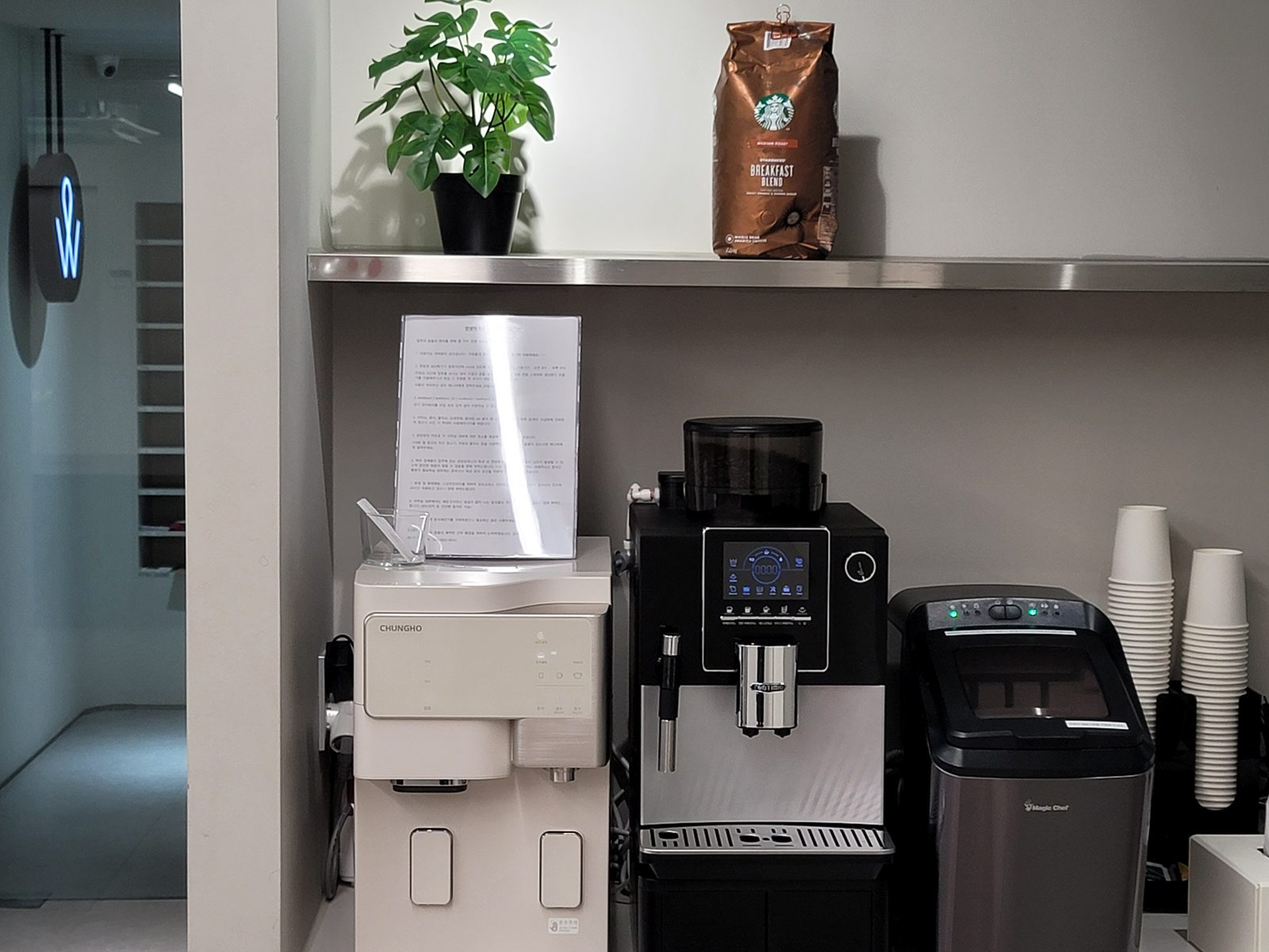
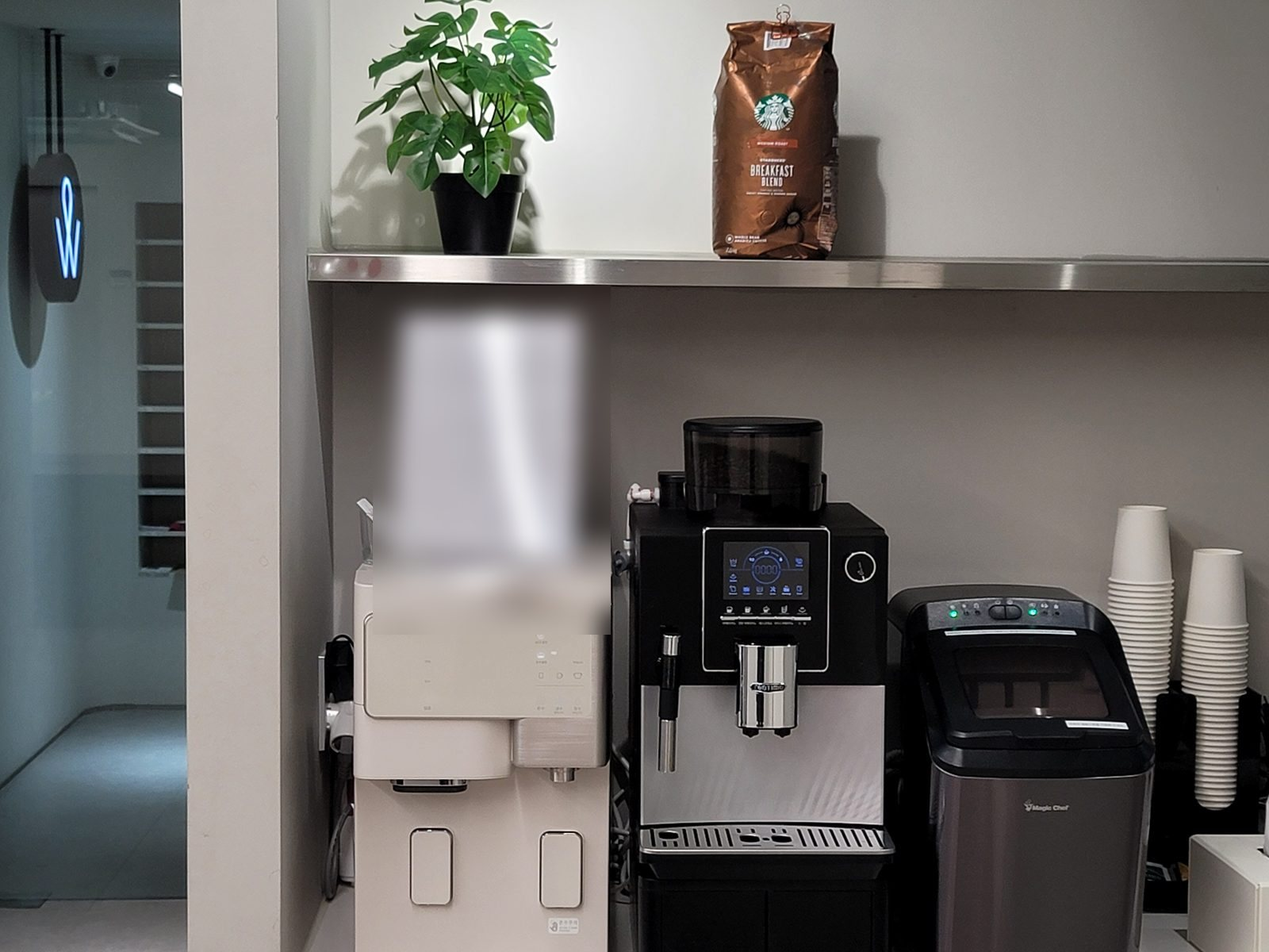
Gallery: 7F-focused photos (blurred notice/phone/name tags), lightbox script, gallery CSS

Changed region(s): [[0.2812, 0.3083, 0.5, 0.6783]]

diff --git a/global.css b/global.css
@@ -1,2 +1,2 @@
 @import url("https://cdn.jsdelivr.net/gh/orioncactus/pretendard@v1.3.9/dist/web/variable/pretendardvariable-dynamic-subset.min.css");
-:root{--wk-ink:#15181d;--wk-text:#2b3038;--wk-muted:#6b7280;--wk-line:#e6e8ec;--wk-soft:#f5f6f8;--wk-soft2:#eceef2;--wk-yellow:#f5c400;--wk-yellow-soft:#fff6c7;--wk-red:#e23d28;--wk-white:#fff;--wk-radius:14px;--wk-max:1120px;--wk-font:"Pretendard Variable",Pretendard,-apple-system,BlinkMacSystemFont,"Apple SD Gothic Neo","Noto Sans KR","Malgun Gothic",sans-serif;}body{font-family:var(--wk-font)!important;-webkit-font-smoothing:antialiased;letter-spacing:-.01em}.doz_sys .wk{font-family:var(--wk-font);color:var(--wk-text);line-height:1.6;word-break:keep-all;max-width:var(--wk-max);margin:0 auto;padding:0 20px}.doz_sys .wk *{box-sizing:border-box}.doz_sys .wk a{color:inherit;text-decoration:none}.doz_sys .wk h1,.doz_sys .wk h2,.doz_sys .wk h3,.doz_sys .wk h4{font-family:var(--wk-font);margin:0;color:var(--wk-ink);font-weight:700;letter-spacing:-.02em;line-height:1.25}.doz_sys .wk p{margin:0}.doz_sys .wk .wk-sec{padding:72px 0}.doz_sys .wk .wk-sec--tight{padding:40px 0}.doz_sys .wk .wk-sec--soft{background:var(--wk-soft);margin:0 -20px;padding-left:20px;padding-right:20px}.doz_sys .wk .wk-eyebrow{display:inline-block;font-size:13px;font-weight:700;letter-spacing:.08em;color:var(--wk-muted);text-transform:uppercase;margin-bottom:14px}.doz_sys .wk .wk-h1{font-size:44px;line-height:1.15}.doz_sys .wk .wk-h2{font-size:32px;margin-bottom:12px}.doz_sys .wk .wk-h3{font-size:20px}.doz_sys .wk .wk-lead{font-size:18px;color:var(--wk-text);max-width:640px}.doz_sys .wk .wk-sub{font-size:16px;color:var(--wk-muted);max-width:640px;margin-top:10px}.doz_sys .wk .wk-mark{background:linear-gradient(transparent 60%,var(--wk-yellow-soft) 60%)}.doz_sys .wk .wk-btns{display:flex;flex-wrap:wrap;gap:10px;margin-top:28px}.doz_sys .wk .wk-btn{display:inline-flex;align-items:center;justify-content:center;gap:8px;height:52px;padding:0 24px;border-radius:999px;font-size:16px;font-weight:600;border:1px solid var(--wk-ink);transition:transform .15s,background .15s,color .15s;white-space:nowrap}.doz_sys .wk .wk-btn:hover{transform:translateY(-1px)}.doz_sys .wk .wk-btn--primary{background:var(--wk-ink);color:#fff}.doz_sys .wk .wk-btn--primary:hover{background:#000}.doz_sys .wk .wk-btn--ghost{background:#fff;color:var(--wk-ink)}.doz_sys .wk .wk-btn--ghost:hover{background:var(--wk-soft)}.doz_sys .wk .wk-btn--yellow{background:var(--wk-yellow);border-color:var(--wk-yellow);color:var(--wk-ink)}.doz_sys .wk .wk-btn--sm{height:42px;padding:0 18px;font-size:14px}.doz_sys .wk .wk-hero{display:grid;grid-template-columns:1.05fr .95fr;gap:48px;align-items:center;padding:56px 0 64px}.doz_sys .wk .wk-hero__img{position:relative;border-radius:20px;overflow:hidden;aspect-ratio:4/3;background:var(--wk-soft2)}.doz_sys .wk .wk-hero__img img{width:100%;height:100%;object-fit:cover;display:block}.doz_sys .wk .wk-hero__tag{position:absolute;left:16px;bottom:16px;background:rgba(21,24,29,.85);color:#fff;font-size:13px;padding:8px 12px;border-radius:999px;backdrop-filter:blur(4px)}.doz_sys .wk .wk-facts{display:flex;flex-wrap:wrap;gap:8px 22px;margin-top:22px;padding:0;list-style:none;font-size:15px;color:var(--wk-text)}.doz_sys .wk .wk-facts li{display:flex;align-items:center;gap:8px}.doz_sys .wk .wk-facts li:before{content:"";width:7px;height:7px;border-radius:50%;background:var(--wk-yellow);flex:none}.doz_sys .wk .wk-stats{display:grid;grid-template-columns:repeat(4,1fr);gap:1px;background:var(--wk-line);border:1px solid var(--wk-line);border-radius:var(--wk-radius);overflow:hidden}.doz_sys .wk .wk-stat{background:#fff;padding:22px 20px}.doz_sys .wk .wk-stat b{display:block;font-size:26px;color:var(--wk-ink);letter-spacing:-.02em}.doz_sys .wk .wk-stat span{font-size:14px;color:var(--wk-muted)}.doz_sys .wk .wk-grid{display:grid;gap:18px;margin-top:32px}.doz_sys .wk .wk-grid--2{grid-template-columns:repeat(2,1fr)}.doz_sys .wk .wk-grid--3{grid-template-columns:repeat(3,1fr)}.doz_sys .wk .wk-grid--4{grid-template-columns:repeat(4,1fr)}.doz_sys .wk .wk-card{background:#fff;border:1px solid var(--wk-line);border-radius:var(--wk-radius);padding:26px 24px}.doz_sys .wk .wk-card--soft{background:var(--wk-soft);border-color:transparent}.doz_sys .wk .wk-card__icon{width:40px;height:40px;border-radius:12px;background:var(--wk-yellow-soft);display:flex;align-items:center;justify-content:center;margin-bottom:16px;font-size:20px;color:var(--wk-ink)}.doz_sys .wk .wk-card h3{font-size:18px;margin-bottom:8px}.doz_sys .wk .wk-card p{font-size:15px;color:var(--wk-muted)}.doz_sys .wk .wk-card--photo{padding:0;overflow:hidden}.doz_sys .wk .wk-card--photo img{width:100%;aspect-ratio:4/3;object-fit:cover;display:block}.doz_sys .wk .wk-card--photo .wk-card__body{padding:18px 20px 22px}.doz_sys .wk .wk-table{width:100%;table-layout:fixed;border-collapse:collapse;margin-top:20px;font-size:15px}.doz_sys .wk .wk-table th:first-child,.doz_sys .wk .wk-table td:first-child{width:22%}.doz_sys .wk .wk-table th,.doz_sys .wk .wk-table td{padding:16px 14px;border-bottom:1px solid var(--wk-line);text-align:left;vertical-align:top}.doz_sys .wk .wk-table th{font-size:13px;font-weight:700;color:var(--wk-muted);letter-spacing:.04em;background:var(--wk-soft)}.doz_sys .wk .wk-table td b{color:var(--wk-ink);font-size:17px}.doz_sys .wk .wk-table td small{display:block;color:var(--wk-muted);font-size:13px;margin-top:2px}.doz_sys .wk .wk-table .wk-plus{display:inline-block;margin-left:6px;padding:2px 8px;border-radius:999px;background:var(--wk-yellow);font-size:12px;font-weight:700;color:var(--wk-ink)}.doz_sys .wk .wk-note{font-size:14px;color:var(--wk-muted);margin-top:12px;padding-left:18px;position:relative}.doz_sys .wk .wk-note:before{content:"※";position:absolute;left:0}.doz_sys .wk .wk-list{margin:18px 0 0;padding:0;list-style:none;display:grid;gap:10px}.doz_sys .wk .wk-list li{position:relative;padding-left:26px;font-size:16px}.doz_sys .wk .wk-list li:before{content:"✓";position:absolute;left:0;top:0;font-weight:700;color:var(--wk-ink);background:var(--wk-yellow);width:18px;height:18px;border-radius:50%;font-size:11px;display:flex;align-items:center;justify-content:center;margin-top:4px}.doz_sys .wk .wk-steps{display:grid;grid-template-columns:repeat(5,1fr);gap:14px;margin-top:28px;counter-reset:step}.doz_sys .wk .wk-step{position:relative;background:#fff;border:1px solid var(--wk-line);border-radius:var(--wk-radius);padding:22px 18px 20px;font-size:15px}.doz_sys .wk .wk-step:before{counter-increment:step;content:counter(step);display:inline-flex;width:30px;height:30px;border-radius:50%;background:var(--wk-ink);color:#fff;font-weight:700;font-size:14px;align-items:center;justify-content:center;margin-bottom:12px}.doz_sys .wk .wk-step b{display:block;color:var(--wk-ink);margin-bottom:4px}.doz_sys .wk .wk-step span{color:var(--wk-muted);font-size:14px}.doz_sys .wk .wk-photos{display:grid;grid-template-columns:repeat(3,1fr);gap:12px;margin-top:28px}.doz_sys .wk .wk-photos figure{margin:0;border-radius:var(--wk-radius);overflow:hidden;background:var(--wk-soft2)}.doz_sys .wk .wk-photos img{width:100%;aspect-ratio:4/3;object-fit:cover;display:block;transition:transform .4s}.doz_sys .wk .wk-photos figure:hover img{transform:scale(1.03)}.doz_sys .wk .wk-photos figcaption{font-size:13px;color:var(--wk-muted);padding:8px 2px 0}.doz_sys .wk .wk-photos--tall img{aspect-ratio:3/4}.doz_sys .wk .wk-quotes{display:grid;grid-template-columns:repeat(3,1fr);gap:18px;margin-top:28px}.doz_sys .wk .wk-quote{background:var(--wk-soft);border-radius:var(--wk-radius);padding:26px 24px;font-size:15px;line-height:1.7}.doz_sys .wk .wk-quote:before{content:"“";display:block;font-size:40px;line-height:.6;color:var(--wk-yellow);font-family:Georgia,serif;margin-bottom:14px}.doz_sys .wk .wk-quote footer{margin-top:14px;font-size:13px;color:var(--wk-muted)}.doz_sys .wk .wk-loc{display:grid;grid-template-columns:1fr 1fr;gap:28px;align-items:start}.doz_sys .wk .wk-loc dl{margin:0;display:grid;grid-template-columns:96px 1fr;gap:10px 14px;font-size:15px}.doz_sys .wk .wk-loc dt{color:var(--wk-muted)}.doz_sys .wk .wk-loc dd{margin:0;color:var(--wk-text)}.doz_sys .wk .wk-faq{margin-top:26px;border-top:1px solid var(--wk-line)}.doz_sys .wk .wk-faq details{border-bottom:1px solid var(--wk-line)}.doz_sys .wk .wk-faq summary{list-style:none;cursor:pointer;padding:20px 44px 20px 0;font-size:17px;font-weight:600;color:var(--wk-ink);position:relative}.doz_sys .wk .wk-faq summary::-webkit-details-marker{display:none}.doz_sys .wk .wk-faq summary:after{content:"+";position:absolute;right:4px;top:16px;font-size:24px;font-weight:300;color:var(--wk-muted);transition:transform .2s}.doz_sys .wk .wk-faq details[open] summary:after{transform:rotate(45deg)}.doz_sys .wk .wk-faq .wk-a{padding:0 0 22px;font-size:15.5px;color:var(--wk-text);max-width:760px}.doz_sys .wk .wk-callout{border:1px solid var(--wk-line);border-left:5px solid var(--wk-yellow);border-radius:var(--wk-radius);padding:24px 26px;background:#fff}.doz_sys .wk .wk-callout h3{font-size:19px;margin-bottom:8px}.doz_sys .wk .wk-callout p{font-size:15px}.doz_sys .wk .wk-callout ul{margin:12px 0 0;padding:0;list-style:none}.doz_sys .wk .wk-callout li{padding-left:22px;position:relative;margin:6px 0;font-size:15px}.doz_sys .wk .wk-callout li:before{content:"✔";position:absolute;left:0;color:var(--wk-ink)}.doz_sys .wk .wk-callout .wk-note{margin-top:14px}.doz_sys .wk .wk-cta{background:var(--wk-ink);color:#fff;border-radius:20px;padding:44px 40px;display:flex;align-items:center;justify-content:space-between;gap:24px;margin:72px 0 40px}.doz_sys .wk .wk-cta h2{color:#fff;font-size:26px}.doz_sys .wk .wk-cta p{color:#c9ced6;margin-top:6px;font-size:15px}.doz_sys .wk .wk-cta .wk-btns{margin:0}.doz_sys .wk .wk-cta .wk-btn--ghost{background:transparent;color:#fff;border-color:#4b515b}.doz_sys .wk .wk-cta .wk-btn--ghost:hover{background:#262a31}.doz_sys .wk-fixbar{display:none}.doz_sys .wk .wk-cover{position:relative;width:100vw;margin-left:calc(50% - 50vw);height:min(80vh,740px);min-height:560px;overflow:hidden;background:#dcdee1}.doz_sys .wk .wk-cover picture,.doz_sys .wk .wk-cover img{position:absolute;inset:0;width:100%;height:100%;object-fit:cover;object-position:50% 56%;display:block;max-width:none}.doz_sys .wk .wk-cover__shade{position:absolute;inset:0}.doz_sys .wk .wk-cover__inner{position:relative;height:100%;max-width:var(--wk-max);margin:0 auto;padding:0 20px 60px;display:flex;flex-direction:column;justify-content:flex-end;align-items:flex-start}.doz_sys .wk .wk-cover h1{font-size:48px;line-height:1.14;letter-spacing:-.035em;margin:0}.doz_sys .wk .wk-cover__lead{font-size:18px;margin:18px 0 0;font-weight:500}.doz_sys .wk .wk-cover .wk-eyebrow{margin-bottom:14px}.doz_sys .wk .wk-cover .wk-facts{display:none;margin-top:14px}.doz_sys .wk .wk-cover .wk-btns{margin-top:28px}.doz_sys .wk .wk-cover--dark .wk-cover__shade{background:linear-gradient(to top,rgba(12,14,18,.86) 0%,rgba(12,14,18,.58) 30%,rgba(12,14,18,.1) 58%,rgba(12,14,18,0) 72%),linear-gradient(to right,rgba(12,14,18,.32) 0%,rgba(12,14,18,0) 45%)}.doz_sys .wk .wk-cover--dark h1{color:#fff}.doz_sys .wk .wk-cover--dark .wk-eyebrow{color:rgba(255,255,255,.75)}.doz_sys .wk .wk-cover--dark .wk-cover__lead,.doz_sys .wk .wk-cover--dark .wk-facts{color:rgba(255,255,255,.9)}.doz_sys .wk .wk-cover--dark .wk-btn--line{background:rgba(255,255,255,.06);color:#fff;border-color:rgba(255,255,255,.6)}.doz_sys .wk .wk-cover--dark .wk-btn--line:hover{background:rgba(255,255,255,.16)}.doz_sys .wk .wk-cover--light .wk-cover__shade{background:linear-gradient(to top,rgba(255,255,255,.94) 0%,rgba(255,255,255,.78) 30%,rgba(255,255,255,.2) 55%,rgba(255,255,255,0) 70%)}.doz_sys .wk .wk-cover--light h1{color:var(--wk-ink)}.doz_sys .wk .wk-cover--light .wk-btn--line{background:rgba(255,255,255,.7);color:var(--wk-ink);border-color:var(--wk-ink)}.doz_sys .wk .wk-cover--light .wk-btn--line:hover{background:#fff}.doz_sys .wk .wk-cover + .wk-stats{margin-top:28px}.doz_sys .wk a.wk-btn[href^="tel:"]{display:none}.doz_sys .wk .wk-cover a.wk-btn[href^="tel:"]{display:inline-flex}.doz_sys .wk dd:has(a[href^="tel:"]),.doz_sys .wk dt:has(+ dd a[href^="tel:"]){display:none}@media (max-width:860px){.doz_sys .wk .wk-cover{height:min(86vh,700px);min-height:600px}.doz_sys .wk .wk-cover img{object-position:32% 45%}.doz_sys .wk .wk-cover__inner{padding-bottom:40px}.doz_sys .wk .wk-cover h1{font-size:34px}.doz_sys .wk .wk-cover__lead{font-size:16px}.doz_sys .wk .wk-cover .wk-btns{margin-top:22px}.doz_sys .wk .wk-hide-m{display:none}.doz_sys .wk .wk-h1{font-size:32px}.doz_sys .wk .wk-h2{font-size:26px}.doz_sys .wk .wk-lead{font-size:16.5px}.doz_sys .wk .wk-sec{padding:52px 0}.doz_sys .wk .wk-sec--soft{padding:52px 20px}.doz_sys .wk .wk-hero{grid-template-columns:1fr;gap:26px;padding:32px 0 44px}.doz_sys .wk .wk-hero__img{order:-1;aspect-ratio:16/10}.doz_sys .wk .wk-stats{grid-template-columns:repeat(2,1fr)}.doz_sys .wk .wk-grid--2,.doz_sys .wk .wk-grid--3,.doz_sys .wk .wk-grid--4{grid-template-columns:1fr}.doz_sys .wk .wk-grid--4{grid-template-columns:repeat(2,1fr)}.doz_sys .wk .wk-steps{grid-template-columns:1fr}.doz_sys .wk .wk-photos{grid-template-columns:repeat(2,1fr)}.doz_sys .wk .wk-quotes{grid-template-columns:1fr}.doz_sys .wk .wk-loc{grid-template-columns:1fr}.doz_sys .wk .wk-cta{flex-direction:column;align-items:flex-start;padding:32px 24px}.doz_sys .wk .wk-table{font-size:14px}.doz_sys .wk .wk-table th,.doz_sys .wk .wk-table td{padding:12px 8px}.doz_sys .wk .wk-table td b{font-size:16px}.doz_sys .wk .wk-table .wk-plus{display:inline-block;margin:4px 0 0}html,body{overflow-x:hidden}.doz_sys .wk .wk-btn{height:48px;padding:0 20px;font-size:15px}.doz_sys .wk-fixbar{display:grid;grid-template-columns:1.4fr 1fr 1fr;gap:8px;position:fixed;left:0;right:0;bottom:0;z-index:9999;padding:10px 12px calc(10px + env(safe-area-inset-bottom));background:rgba(255,255,255,.96);border-top:1px solid var(--wk-line);backdrop-filter:blur(8px);font-family:var(--wk-font)}.doz_sys .wk-fixbar a{display:flex;align-items:center;justify-content:center;height:46px;border-radius:12px;font-size:15px;font-weight:700;color:var(--wk-ink);background:var(--wk-soft);text-decoration:none}.doz_sys .wk-fixbar a.is-primary{background:var(--wk-ink);color:#fff}body{padding-bottom:76px}.doz_sys .wk-fixbar{grid-template-columns:1.3fr 1fr}.doz_sys .wk-fixbar a[href^="tel:"]{display:none}}
+:root{--wk-ink:#15181d;--wk-text:#2b3038;--wk-muted:#6b7280;--wk-line:#e6e8ec;--wk-soft:#f5f6f8;--wk-soft2:#eceef2;--wk-yellow:#f5c400;--wk-yellow-soft:#fff6c7;--wk-red:#e23d28;--wk-white:#fff;--wk-radius:14px;--wk-max:1120px;--wk-font:"Pretendard Variable",Pretendard,-apple-system,BlinkMacSystemFont,"Apple SD Gothic Neo","Noto Sans KR","Malgun Gothic",sans-serif;}body{font-family:var(--wk-font)!important;-webkit-font-smoothing:antialiased;letter-spacing:-.01em}.doz_sys .wk{font-family:var(--wk-font);color:var(--wk-text);line-height:1.6;word-break:keep-all;max-width:var(--wk-max);margin:0 auto;padding:0 20px}.doz_sys .wk *{box-sizing:border-box}.doz_sys .wk a{color:inherit;text-decoration:none}.doz_sys .wk h1,.doz_sys .wk h2,.doz_sys .wk h3,.doz_sys .wk h4{font-family:var(--wk-font);margin:0;color:var(--wk-ink);font-weight:700;letter-spacing:-.02em;line-height:1.25}.doz_sys .wk p{margin:0}.doz_sys .wk .wk-sec{padding:72px 0}.doz_sys .wk .wk-sec--tight{padding:40px 0}.doz_sys .wk .wk-sec--soft{background:var(--wk-soft);margin:0 -20px;padding-left:20px;padding-right:20px}.doz_sys .wk .wk-eyebrow{display:inline-block;font-size:13px;font-weight:700;letter-spacing:.08em;color:var(--wk-muted);text-transform:uppercase;margin-bottom:14px}.doz_sys .wk .wk-h1{font-size:44px;line-height:1.15}.doz_sys .wk .wk-h2{font-size:32px;margin-bottom:12px}.doz_sys .wk .wk-h3{font-size:20px}.doz_sys .wk .wk-lead{font-size:18px;color:var(--wk-text);max-width:640px}.doz_sys .wk .wk-sub{font-size:16px;color:var(--wk-muted);max-width:640px;margin-top:10px}.doz_sys .wk .wk-mark{background:linear-gradient(transparent 60%,var(--wk-yellow-soft) 60%)}.doz_sys .wk .wk-btns{display:flex;flex-wrap:wrap;gap:10px;margin-top:28px}.doz_sys .wk .wk-btn{display:inline-flex;align-items:center;justify-content:center;gap:8px;height:52px;padding:0 24px;border-radius:999px;font-size:16px;font-weight:600;border:1px solid var(--wk-ink);transition:transform .15s,background .15s,color .15s;white-space:nowrap}.doz_sys .wk .wk-btn:hover{transform:translateY(-1px)}.doz_sys .wk .wk-btn--primary{background:var(--wk-ink);color:#fff}.doz_sys .wk .wk-btn--primary:hover{background:#000}.doz_sys .wk .wk-btn--ghost{background:#fff;color:var(--wk-ink)}.doz_sys .wk .wk-btn--ghost:hover{background:var(--wk-soft)}.doz_sys .wk .wk-btn--yellow{background:var(--wk-yellow);border-color:var(--wk-yellow);color:var(--wk-ink)}.doz_sys .wk .wk-btn--sm{height:42px;padding:0 18px;font-size:14px}.doz_sys .wk .wk-hero{display:grid;grid-template-columns:1.05fr .95fr;gap:48px;align-items:center;padding:56px 0 64px}.doz_sys .wk .wk-hero__img{position:relative;border-radius:20px;overflow:hidden;aspect-ratio:4/3;background:var(--wk-soft2)}.doz_sys .wk .wk-hero__img img{width:100%;height:100%;object-fit:cover;display:block}.doz_sys .wk .wk-hero__tag{position:absolute;left:16px;bottom:16px;background:rgba(21,24,29,.85);color:#fff;font-size:13px;padding:8px 12px;border-radius:999px;backdrop-filter:blur(4px)}.doz_sys .wk .wk-facts{display:flex;flex-wrap:wrap;gap:8px 22px;margin-top:22px;padding:0;list-style:none;font-size:15px;color:var(--wk-text)}.doz_sys .wk .wk-facts li{display:flex;align-items:center;gap:8px}.doz_sys .wk .wk-facts li:before{content:"";width:7px;height:7px;border-radius:50%;background:var(--wk-yellow);flex:none}.doz_sys .wk .wk-stats{display:grid;grid-template-columns:repeat(4,1fr);gap:1px;background:var(--wk-line);border:1px solid var(--wk-line);border-radius:var(--wk-radius);overflow:hidden}.doz_sys .wk .wk-stat{background:#fff;padding:22px 20px}.doz_sys .wk .wk-stat b{display:block;font-size:26px;color:var(--wk-ink);letter-spacing:-.02em}.doz_sys .wk .wk-stat span{font-size:14px;color:var(--wk-muted)}.doz_sys .wk .wk-grid{display:grid;gap:18px;margin-top:32px}.doz_sys .wk .wk-grid--2{grid-template-columns:repeat(2,1fr)}.doz_sys .wk .wk-grid--3{grid-template-columns:repeat(3,1fr)}.doz_sys .wk .wk-grid--4{grid-template-columns:repeat(4,1fr)}.doz_sys .wk .wk-card{background:#fff;border:1px solid var(--wk-line);border-radius:var(--wk-radius);padding:26px 24px}.doz_sys .wk .wk-card--soft{background:var(--wk-soft);border-color:transparent}.doz_sys .wk .wk-card__icon{width:40px;height:40px;border-radius:12px;background:var(--wk-yellow-soft);display:flex;align-items:center;justify-content:center;margin-bottom:16px;font-size:20px;color:var(--wk-ink)}.doz_sys .wk .wk-card h3{font-size:18px;margin-bottom:8px}.doz_sys .wk .wk-card p{font-size:15px;color:var(--wk-muted)}.doz_sys .wk .wk-card--photo{padding:0;overflow:hidden}.doz_sys .wk .wk-card--photo img{width:100%;aspect-ratio:4/3;object-fit:cover;display:block}.doz_sys .wk .wk-card--photo .wk-card__body{padding:18px 20px 22px}.doz_sys .wk .wk-table{width:100%;table-layout:fixed;border-collapse:collapse;margin-top:20px;font-size:15px}.doz_sys .wk .wk-table th:first-child,.doz_sys .wk .wk-table td:first-child{width:22%}.doz_sys .wk .wk-table th,.doz_sys .wk .wk-table td{padding:16px 14px;border-bottom:1px solid var(--wk-line);text-align:left;vertical-align:top}.doz_sys .wk .wk-table th{font-size:13px;font-weight:700;color:var(--wk-muted);letter-spacing:.04em;background:var(--wk-soft)}.doz_sys .wk .wk-table td b{color:var(--wk-ink);font-size:17px}.doz_sys .wk .wk-table td small{display:block;color:var(--wk-muted);font-size:13px;margin-top:2px}.doz_sys .wk .wk-table .wk-plus{display:inline-block;margin-left:6px;padding:2px 8px;border-radius:999px;background:var(--wk-yellow);font-size:12px;font-weight:700;color:var(--wk-ink)}.doz_sys .wk .wk-note{font-size:14px;color:var(--wk-muted);margin-top:12px;padding-left:18px;position:relative}.doz_sys .wk .wk-note:before{content:"※";position:absolute;left:0}.doz_sys .wk .wk-list{margin:18px 0 0;padding:0;list-style:none;display:grid;gap:10px}.doz_sys .wk .wk-list li{position:relative;padding-left:26px;font-size:16px}.doz_sys .wk .wk-list li:before{content:"✓";position:absolute;left:0;top:0;font-weight:700;color:var(--wk-ink);background:var(--wk-yellow);width:18px;height:18px;border-radius:50%;font-size:11px;display:flex;align-items:center;justify-content:center;margin-top:4px}.doz_sys .wk .wk-steps{display:grid;grid-template-columns:repeat(5,1fr);gap:14px;margin-top:28px;counter-reset:step}.doz_sys .wk .wk-step{position:relative;background:#fff;border:1px solid var(--wk-line);border-radius:var(--wk-radius);padding:22px 18px 20px;font-size:15px}.doz_sys .wk .wk-step:before{counter-increment:step;content:counter(step);display:inline-flex;width:30px;height:30px;border-radius:50%;background:var(--wk-ink);color:#fff;font-weight:700;font-size:14px;align-items:center;justify-content:center;margin-bottom:12px}.doz_sys .wk .wk-step b{display:block;color:var(--wk-ink);margin-bottom:4px}.doz_sys .wk .wk-step span{color:var(--wk-muted);font-size:14px}.doz_sys .wk .wk-photos{display:grid;grid-template-columns:repeat(3,1fr);gap:12px;margin-top:28px}.doz_sys .wk .wk-photos figure{margin:0;border-radius:var(--wk-radius);overflow:hidden;background:var(--wk-soft2)}.doz_sys .wk .wk-photos img{width:100%;aspect-ratio:4/3;object-fit:cover;display:block;transition:transform .4s}.doz_sys .wk .wk-photos figure:hover img{transform:scale(1.03)}.doz_sys .wk .wk-photos figcaption{font-size:13px;color:var(--wk-muted);padding:8px 2px 0}.doz_sys .wk .wk-photos--tall img{aspect-ratio:3/4}.doz_sys .wk .wk-quotes{display:grid;grid-template-columns:repeat(3,1fr);gap:18px;margin-top:28px}.doz_sys .wk .wk-quote{background:var(--wk-soft);border-radius:var(--wk-radius);padding:26px 24px;font-size:15px;line-height:1.7}.doz_sys .wk .wk-quote:before{content:"“";display:block;font-size:40px;line-height:.6;color:var(--wk-yellow);font-family:Georgia,serif;margin-bottom:14px}.doz_sys .wk .wk-quote footer{margin-top:14px;font-size:13px;color:var(--wk-muted)}.doz_sys .wk .wk-loc{display:grid;grid-template-columns:1fr 1fr;gap:28px;align-items:start}.doz_sys .wk .wk-loc dl{margin:0;display:grid;grid-template-columns:96px 1fr;gap:10px 14px;font-size:15px}.doz_sys .wk .wk-loc dt{color:var(--wk-muted)}.doz_sys .wk .wk-loc dd{margin:0;color:var(--wk-text)}.doz_sys .wk .wk-faq{margin-top:26px;border-top:1px solid var(--wk-line)}.doz_sys .wk .wk-faq details{border-bottom:1px solid var(--wk-line)}.doz_sys .wk .wk-faq summary{list-style:none;cursor:pointer;padding:20px 44px 20px 0;font-size:17px;font-weight:600;color:var(--wk-ink);position:relative}.doz_sys .wk .wk-faq summary::-webkit-details-marker{display:none}.doz_sys .wk .wk-faq summary:after{content:"+";position:absolute;right:4px;top:16px;font-size:24px;font-weight:300;color:var(--wk-muted);transition:transform .2s}.doz_sys .wk .wk-faq details[open] summary:after{transform:rotate(45deg)}.doz_sys .wk .wk-faq .wk-a{padding:0 0 22px;font-size:15.5px;color:var(--wk-text);max-width:760px}.doz_sys .wk .wk-callout{border:1px solid var(--wk-line);border-left:5px solid var(--wk-yellow);border-radius:var(--wk-radius);padding:24px 26px;background:#fff}.doz_sys .wk .wk-callout h3{font-size:19px;margin-bottom:8px}.doz_sys .wk .wk-callout p{font-size:15px}.doz_sys .wk .wk-callout ul{margin:12px 0 0;padding:0;list-style:none}.doz_sys .wk .wk-callout li{padding-left:22px;position:relative;margin:6px 0;font-size:15px}.doz_sys .wk .wk-callout li:before{content:"✔";position:absolute;left:0;color:var(--wk-ink)}.doz_sys .wk .wk-callout .wk-note{margin-top:14px}.doz_sys .wk .wk-cta{background:var(--wk-ink);color:#fff;border-radius:20px;padding:44px 40px;display:flex;align-items:center;justify-content:space-between;gap:24px;margin:72px 0 40px}.doz_sys .wk .wk-cta h2{color:#fff;font-size:26px}.doz_sys .wk .wk-cta p{color:#c9ced6;margin-top:6px;font-size:15px}.doz_sys .wk .wk-cta .wk-btns{margin:0}.doz_sys .wk .wk-cta .wk-btn--ghost{background:transparent;color:#fff;border-color:#4b515b}.doz_sys .wk .wk-cta .wk-btn--ghost:hover{background:#262a31}.doz_sys .wk-fixbar{display:none}.doz_sys .wk .wk-cover{position:relative;width:100vw;margin-left:calc(50% - 50vw);height:min(80vh,740px);min-height:560px;overflow:hidden;background:#dcdee1}.doz_sys .wk .wk-cover picture,.doz_sys .wk .wk-cover img{position:absolute;inset:0;width:100%;height:100%;object-fit:cover;object-position:50% 56%;display:block;max-width:none}.doz_sys .wk .wk-cover__shade{position:absolute;inset:0}.doz_sys .wk .wk-cover__inner{position:relative;height:100%;max-width:var(--wk-max);margin:0 auto;padding:0 20px 60px;display:flex;flex-direction:column;justify-content:flex-end;align-items:flex-start}.doz_sys .wk .wk-cover h1{font-size:48px;line-height:1.14;letter-spacing:-.035em;margin:0}.doz_sys .wk .wk-cover__lead{font-size:18px;margin:18px 0 0;font-weight:500}.doz_sys .wk .wk-cover .wk-eyebrow{margin-bottom:14px}.doz_sys .wk .wk-cover .wk-facts{display:none;margin-top:14px}.doz_sys .wk .wk-cover .wk-btns{margin-top:28px}.doz_sys .wk .wk-cover--dark .wk-cover__shade{background:linear-gradient(to top,rgba(12,14,18,.86) 0%,rgba(12,14,18,.58) 30%,rgba(12,14,18,.1) 58%,rgba(12,14,18,0) 72%),linear-gradient(to right,rgba(12,14,18,.32) 0%,rgba(12,14,18,0) 45%)}.doz_sys .wk .wk-cover--dark h1{color:#fff}.doz_sys .wk .wk-cover--dark .wk-eyebrow{color:rgba(255,255,255,.75)}.doz_sys .wk .wk-cover--dark .wk-cover__lead,.doz_sys .wk .wk-cover--dark .wk-facts{color:rgba(255,255,255,.9)}.doz_sys .wk .wk-cover--dark .wk-btn--line{background:rgba(255,255,255,.06);color:#fff;border-color:rgba(255,255,255,.6)}.doz_sys .wk .wk-cover--dark .wk-btn--line:hover{background:rgba(255,255,255,.16)}.doz_sys .wk .wk-cover--light .wk-cover__shade{background:linear-gradient(to top,rgba(255,255,255,.94) 0%,rgba(255,255,255,.78) 30%,rgba(255,255,255,.2) 55%,rgba(255,255,255,0) 70%)}.doz_sys .wk .wk-cover--light h1{color:var(--wk-ink)}.doz_sys .wk .wk-cover--light .wk-btn--line{background:rgba(255,255,255,.7);color:var(--wk-ink);border-color:var(--wk-ink)}.doz_sys .wk .wk-cover--light .wk-btn--line:hover{background:#fff}.doz_sys .wk .wk-cover + .wk-stats{margin-top:28px}.doz_sys .wk a.wk-btn[href^="tel:"]{display:none}.doz_sys .wk .wk-cover a.wk-btn[href^="tel:"]{display:inline-flex}.doz_sys .wk dd:has(a[href^="tel:"]),.doz_sys .wk dt:has(+ dd a[href^="tel:"]){display:none}@media (max-width:860px){.doz_sys .wk .wk-cover{height:min(86vh,700px);min-height:600px}.doz_sys .wk .wk-cover img{object-position:32% 45%}.doz_sys .wk .wk-cover__inner{padding-bottom:40px}.doz_sys .wk .wk-cover h1{font-size:34px}.doz_sys .wk .wk-cover__lead{font-size:16px}.doz_sys .wk .wk-cover .wk-btns{margin-top:22px}.doz_sys .wk .wk-hide-m{display:none}.doz_sys .wk .wk-h1{font-size:32px}.doz_sys .wk .wk-h2{font-size:26px}.doz_sys .wk .wk-lead{font-size:16.5px}.doz_sys .wk .wk-sec{padding:52px 0}.doz_sys .wk .wk-sec--soft{padding:52px 20px}.doz_sys .wk .wk-hero{grid-template-columns:1fr;gap:26px;padding:32px 0 44px}.doz_sys .wk .wk-hero__img{order:-1;aspect-ratio:16/10}.doz_sys .wk .wk-stats{grid-template-columns:repeat(2,1fr)}.doz_sys .wk .wk-grid--2,.doz_sys .wk .wk-grid--3,.doz_sys .wk .wk-grid--4{grid-template-columns:1fr}.doz_sys .wk .wk-grid--4{grid-template-columns:repeat(2,1fr)}.doz_sys .wk .wk-steps{grid-template-columns:1fr}.doz_sys .wk .wk-photos{grid-template-columns:repeat(2,1fr)}.doz_sys .wk .wk-quotes{grid-template-columns:1fr}.doz_sys .wk .wk-loc{grid-template-columns:1fr}.doz_sys .wk .wk-cta{flex-direction:column;align-items:flex-start;padding:32px 24px}.doz_sys .wk .wk-table{font-size:14px}.doz_sys .wk .wk-table th,.doz_sys .wk .wk-table td{padding:12px 8px}.doz_sys .wk .wk-table td b{font-size:16px}.doz_sys .wk .wk-table .wk-plus{display:inline-block;margin:4px 0 0}html,body{overflow-x:hidden}.doz_sys .wk .wk-btn{height:48px;padding:0 20px;font-size:15px}.doz_sys .wk-fixbar{display:grid;grid-template-columns:1.4fr 1fr 1fr;gap:8px;position:fixed;left:0;right:0;bottom:0;z-index:9999;padding:10px 12px calc(10px + env(safe-area-inset-bottom));background:rgba(255,255,255,.96);border-top:1px solid var(--wk-line);backdrop-filter:blur(8px);font-family:var(--wk-font)}.doz_sys .wk-fixbar a{display:flex;align-items:center;justify-content:center;height:46px;border-radius:12px;font-size:15px;font-weight:700;color:var(--wk-ink);background:var(--wk-soft);text-decoration:none}.doz_sys .wk-fixbar a.is-primary{background:var(--wk-ink);color:#fff}body{padding-bottom:76px}.doz_sys .wk-fixbar{grid-template-columns:1.3fr 1fr}.doz_sys .wk-fixbar a[href^="tel:"]{display:none}}.doz_sys .wk .wk-photos a.wk-lb{display:block;cursor:zoom-in;overflow:hidden}.doz_sys .wk .wk-photos img{height:auto}.doz_sys .wk .wk-photos a.wk-lb img{transition:transform .4s}.doz_sys .wk .wk-photos a.wk-lb:hover img{transform:scale(1.03)}.doz_sys .wk .wk-photos--2{grid-template-columns:repeat(2,1fr)}.doz_sys .wk .wk-gal-hint{font-size:13px;color:var(--wk-muted);margin-top:10px}@media (min-width:861px){.doz_sys .wk .wk-quotes--2{grid-template-columns:repeat(2,1fr)}}

diff --git a/wk-lightbox.js b/wk-lightbox.js
@@ -1,0 +1,74 @@
+/* 워크룸 사진 크게 보기 (라이트박스) — a.wk-lb 링크를 누르면 큰 사진을 띄운다.
+   같은 .wk-photos 묶음 안에서 좌우 버튼·키보드 화살표·스와이프로 넘기고, ×·Esc·배경 누르기로 닫는다. */
+(function () {
+  if (window.__wkLightbox) return;
+  window.__wkLightbox = 1;
+  var css = '#wk-lb{position:fixed;inset:0;z-index:2147483000;background:rgba(10,12,15,.94);display:none;align-items:center;justify-content:center;-webkit-tap-highlight-color:transparent}' +
+    '#wk-lb.on{display:flex}#wk-lb figure{margin:0;display:flex;flex-direction:column;align-items:center;max-width:94vw}' +
+    '#wk-lb img{max-width:94vw;max-height:80vh;width:auto;height:auto;object-fit:contain;border-radius:6px;user-select:none;-webkit-user-drag:none;background:#222}' +
+    '#wk-lb figcaption{color:#e6e8ec;font:500 14px/1.5 "Pretendard Variable",Pretendard,sans-serif;margin-top:12px;text-align:center}' +
+    '#wk-lb button{position:absolute;background:rgba(255,255,255,.14);color:#fff;border:0;width:48px;height:48px;border-radius:50%;font:300 28px/48px sans-serif;cursor:pointer;padding:0;text-align:center}' +
+    '#wk-lb button:hover{background:rgba(255,255,255,.26)}#wk-lb .x{top:16px;right:16px}#wk-lb .p{left:16px;top:50%;margin-top:-24px}#wk-lb .n{right:16px;top:50%;margin-top:-24px}' +
+    '@media (max-width:640px){#wk-lb .p,#wk-lb .n{top:auto;bottom:24px;margin:0}#wk-lb img{max-height:70vh}}';
+  var box, img, cap, list = [], idx = 0, sx = null, sy = null, prevOverflow = '';
+
+  function build() {
+    if (box) return;
+    var st = document.createElement('style'); st.textContent = css; document.head.appendChild(st);
+    box = document.createElement('div'); box.id = 'wk-lb';
+    box.setAttribute('role', 'dialog'); box.setAttribute('aria-modal', 'true'); box.setAttribute('aria-label', '사진 크게 보기');
+    box.innerHTML = '<figure><img alt=""><figcaption></figcaption></figure>' +
+      '<button class="p" type="button" aria-label="이전 사진">‹</button><button class="n" type="button" aria-label="다음 사진">›</button>' +
+      '<button class="x" type="button" aria-label="닫기">×</button>';
+    document.body.appendChild(box);
+    img = box.querySelector('img'); cap = box.querySelector('figcaption');
+    box.querySelector('.x').onclick = close;
+    box.querySelector('.p').onclick = function () { go(-1); };
+    box.querySelector('.n').onclick = function () { go(1); };
+    box.addEventListener('click', function (e) { if (e.target === box || e.target.tagName === 'FIGURE') close(); });
+    box.addEventListener('touchstart', function (e) { var t = e.touches[0]; sx = t.clientX; sy = t.clientY; }, { passive: true });
+    box.addEventListener('touchend', function (e) {
+      if (sx === null) return;
+      var t = e.changedTouches[0], dx = t.clientX - sx, dy = t.clientY - sy; sx = null;
+      if (Math.abs(dx) > 50 && Math.abs(dx) > Math.abs(dy)) go(dx < 0 ? 1 : -1);
+      else if (dy > 90 && Math.abs(dy) > Math.abs(dx)) close();
+    }, { passive: true });
+  }
+  function show() {
+    var a = list[idx];
+    img.src = a.href; img.alt = (a.querySelector('img') || {}).alt || '';
+    cap.textContent = (a.getAttribute('data-cap') || img.alt) + (list.length > 1 ? '  (' + (idx + 1) + '/' + list.length + ')' : '');
+    var many = list.length > 1;
+    box.querySelector('.p').style.display = many ? '' : 'none';
+    box.querySelector('.n').style.display = many ? '' : 'none';
+    [idx + 1, idx - 1].forEach(function (k) { var b = list[(k + list.length) % list.length]; if (b) { var i = new Image(); i.src = b.href; } });
+  }
+  function go(d) { idx = (idx + d + list.length) % list.length; show(); }
+  function open(a) {
+    build();
+    var group = a.closest('.wk-photos') || document;
+    list = Array.prototype.slice.call(group.querySelectorAll('a.wk-lb'));
+    idx = Math.max(0, list.indexOf(a));
+    show();
+    box.classList.add('on');
+    prevOverflow = document.documentElement.style.overflow;
+    document.documentElement.style.overflow = 'hidden';
+    box.querySelector('.x').focus();
+  }
+  function close() {
+    if (!box || !box.classList.contains('on')) return;
+    box.classList.remove('on'); img.removeAttribute('src');
+    document.documentElement.style.overflow = prevOverflow;
+  }
+  document.addEventListener('click', function (e) {
+    var a = e.target.closest && e.target.closest('a.wk-lb');
+    if (!a) return;
+    e.preventDefault(); open(a);
+  });
+  document.addEventListener('keydown', function (e) {
+    if (!box || !box.classList.contains('on')) return;
+    if (e.key === 'Escape') close();
+    else if (e.key === 'ArrowRight') go(1);
+    else if (e.key === 'ArrowLeft') go(-1);
+  });
+})();
